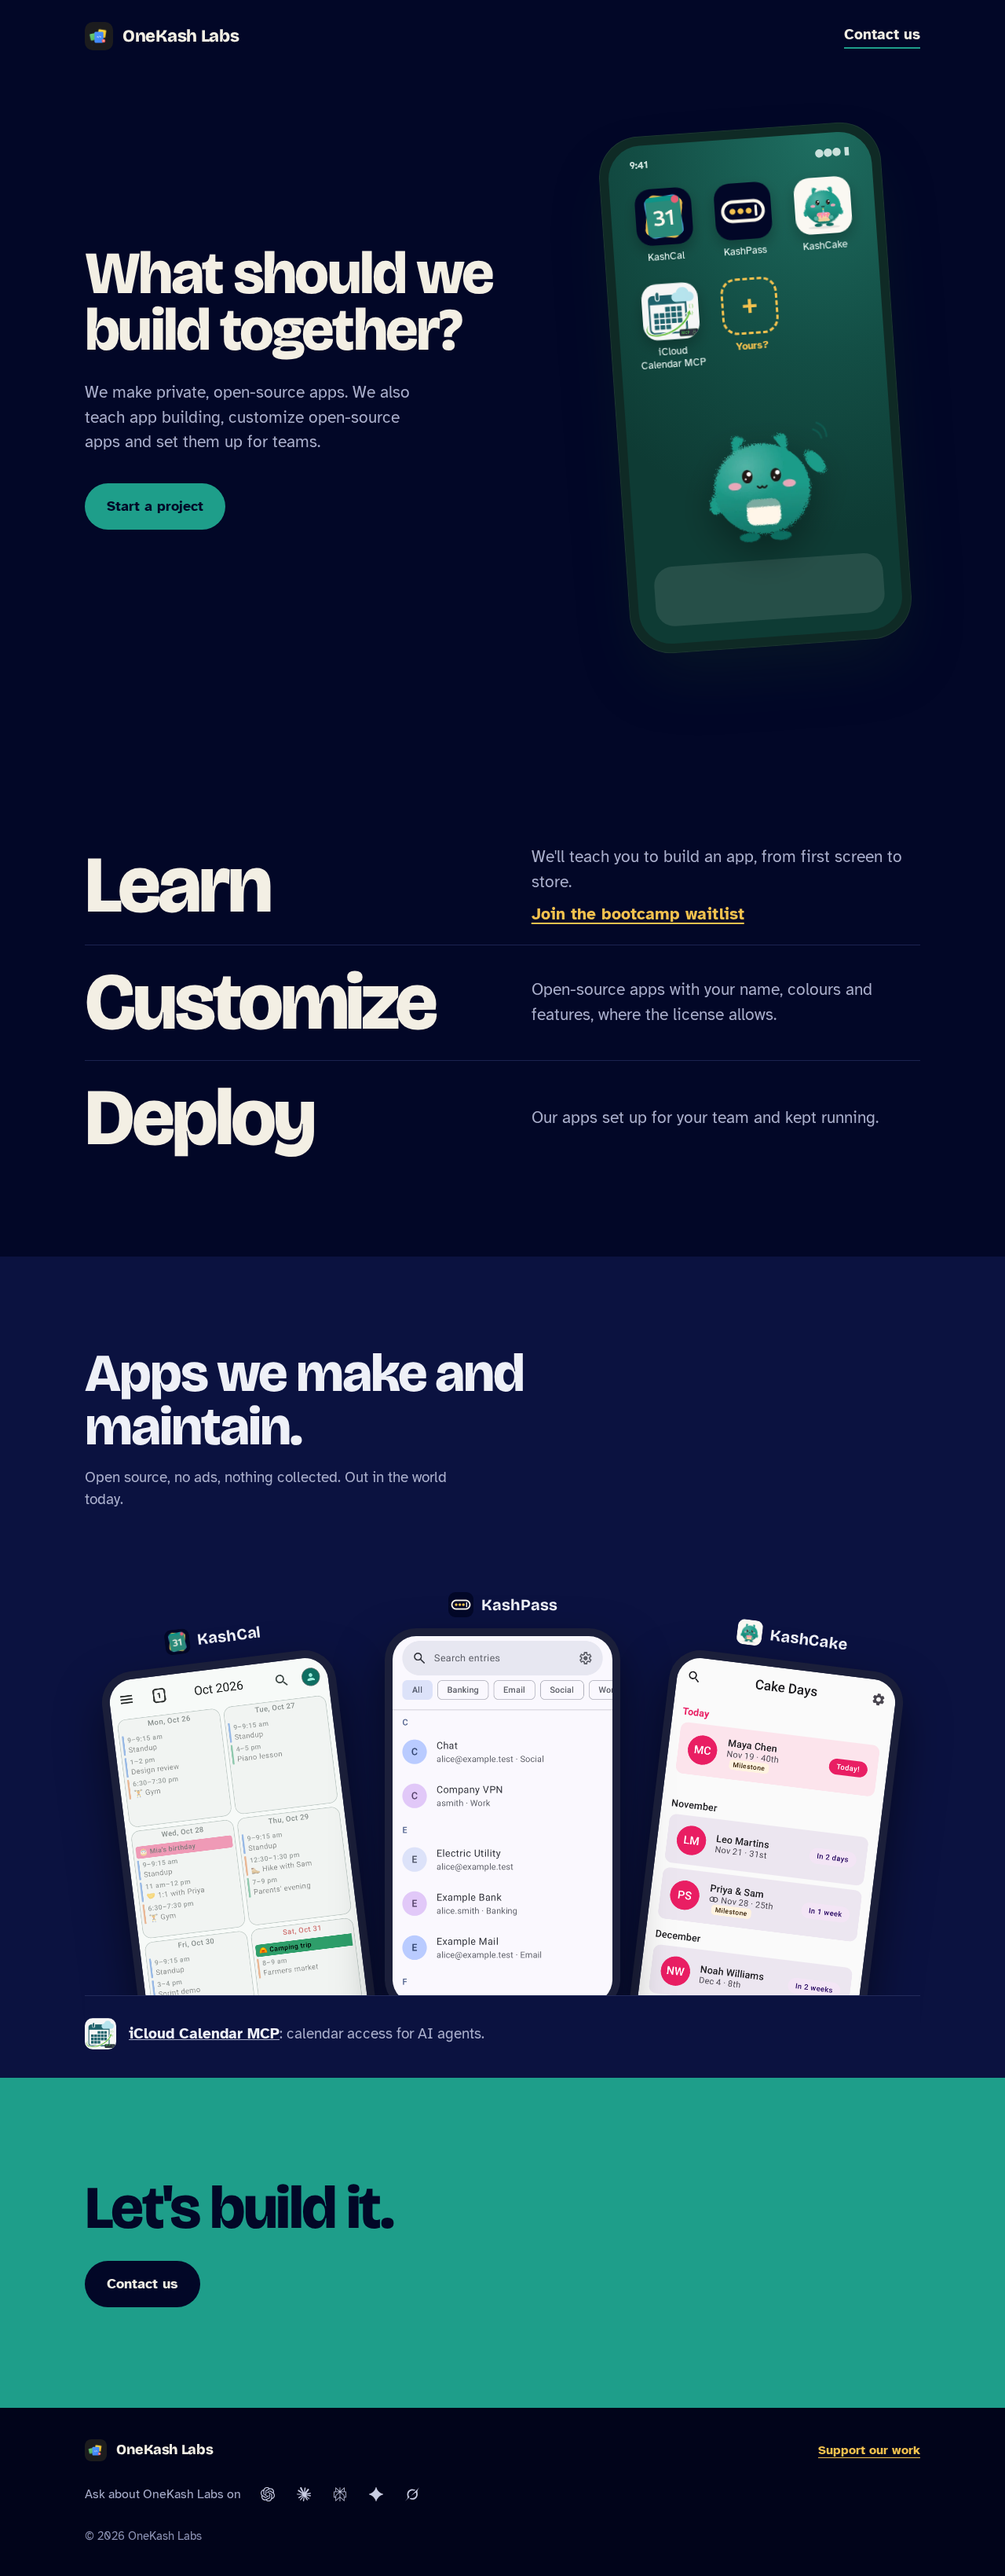
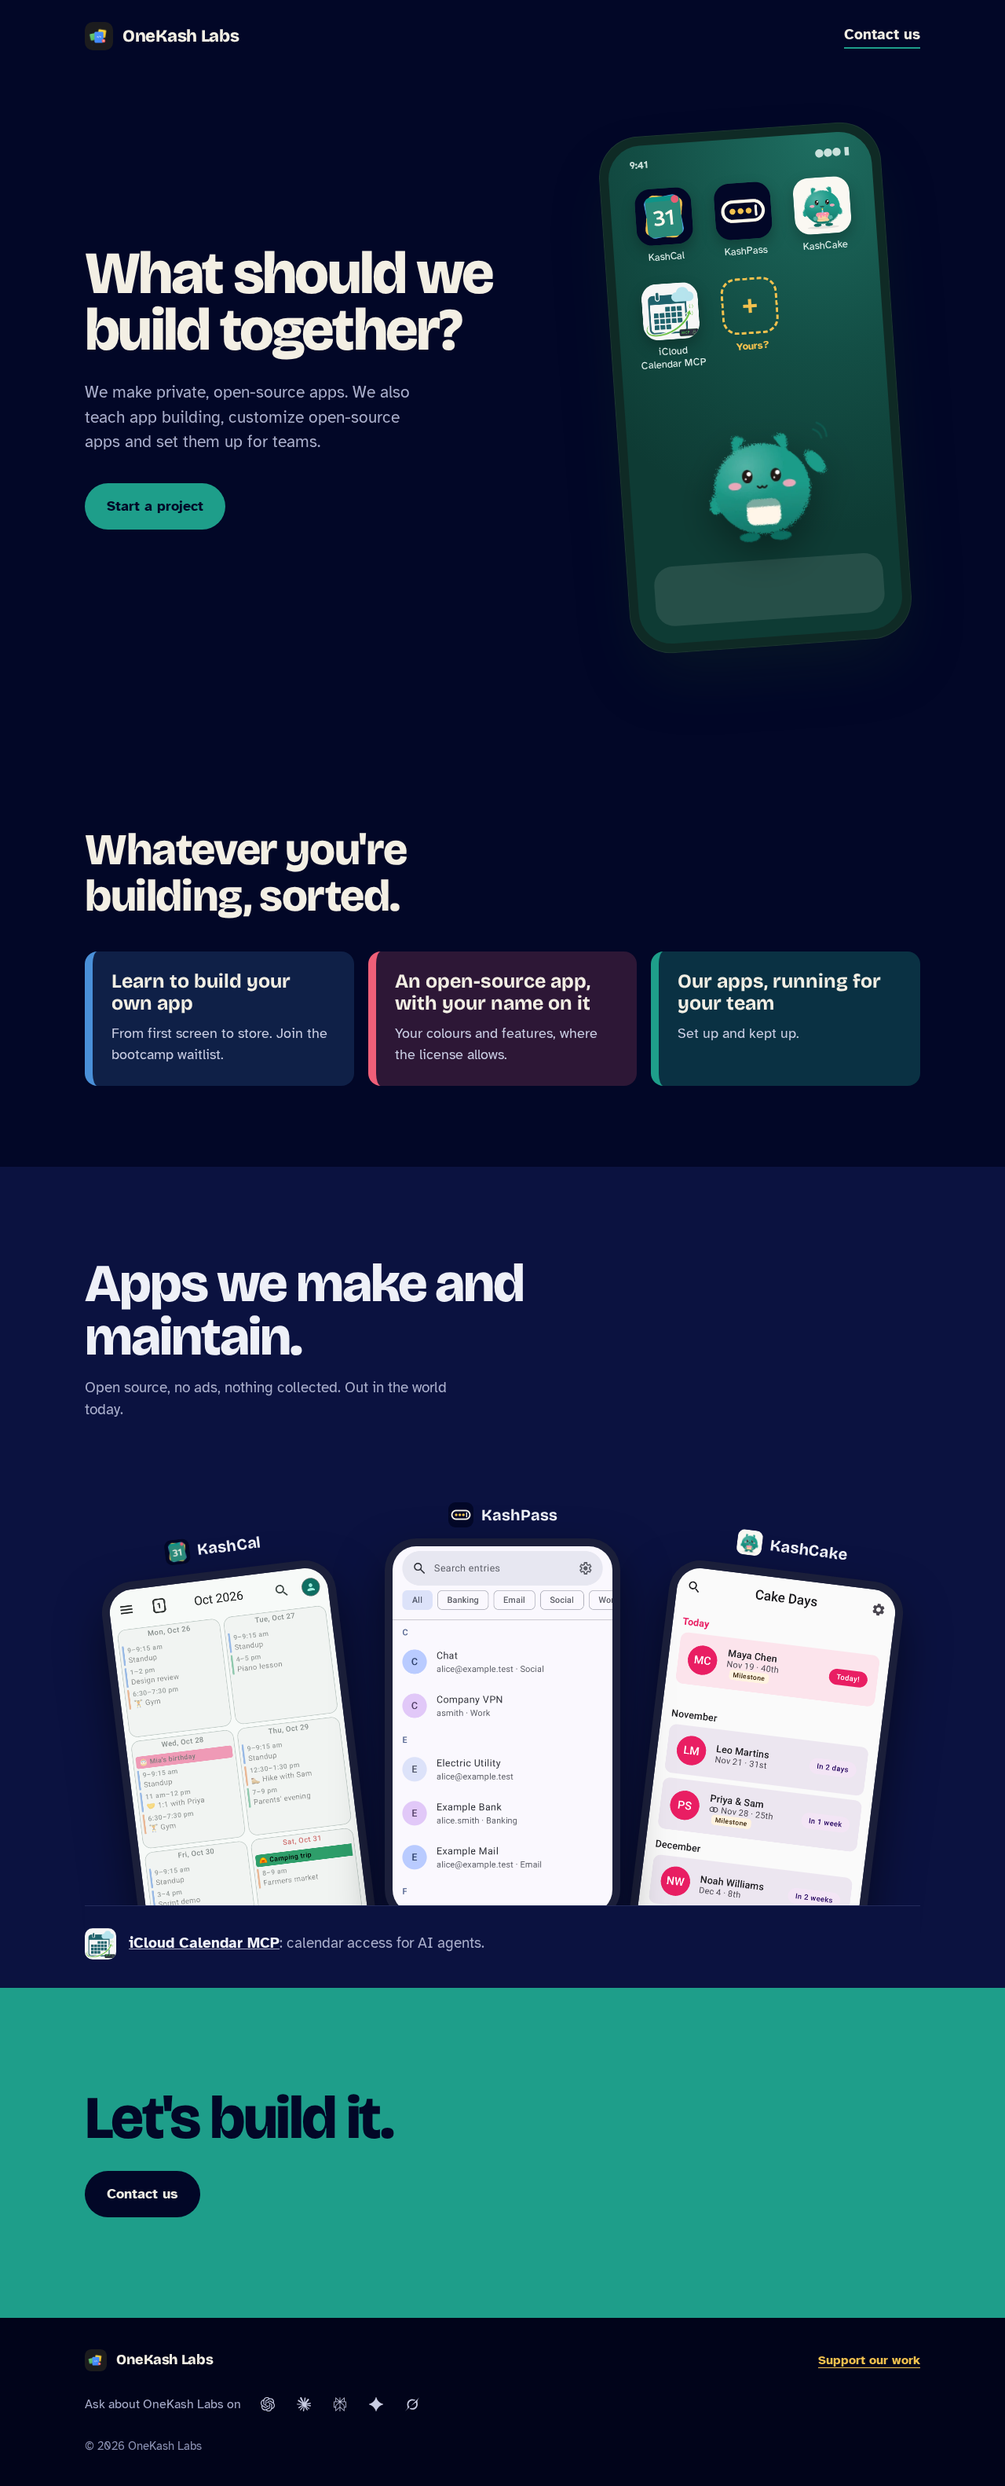
Offerings as tinted tiles with a sentence heading

diff --git a/index.html b/index.html
@@ -69,14 +69,14 @@
   .slot.mine .yours { animation: beckon 1s ease-in-out 1.9s 2; }
   @media (prefers-reduced-motion: reduce) { .slot, .slot.mine .yours { animation: none; } }
 
-  /* Offerings: three words set as type, each with one line. */
+  /* Offerings drawn as the apps' event cards: a tint of the colour with a solid bar of it down the leading edge. */
   .offers { padding: clamp(56px, 8vw, 104px) 0; }
-  .offer { display: grid; grid-template-columns: minmax(0, 1.1fr) minmax(0, 1fr); align-items: center; gap: 24px; padding: 22px 0; }
-  .offer + .offer { border-top: 1px solid #E4DCC6; }
-  .offer h2 { font-family: var(--display); font-weight: 800; font-size: clamp(52px, 8vw, 112px); line-height: 1; letter-spacing: -.04em; }
-  .offer p { font-size: 21px; color: var(--ink-soft); max-width: 34ch; }
-  .offer.learn h2 { color: var(--blue-ink); } .offer.custom h2 { color: var(--pink-ink); } .offer.deploy h2 { color: var(--teal-ink); }
-  .offer .wait { display: inline-block; margin-top: 10px; font-weight: 700; color: var(--blue-ink); text-decoration-thickness: 2px; text-underline-offset: 4px; }
+  .offers h2 { font-family: var(--display); font-weight: 800; font-size: clamp(34px, 4.6vw, 56px); line-height: 1.05; letter-spacing: -.025em; max-width: 18ch; margin-bottom: 40px; }
+  .tiles { display: grid; grid-template-columns: repeat(3, 1fr); gap: 18px; }
+  .tile { display: block; text-decoration: none; border-radius: 16px; padding: 24px 24px 26px; border-inline-start: 10px solid var(--tile); background: color-mix(in srgb, var(--tile) 18%, #020727); color: #F3EFE4; }
+  .tile:hover { background: color-mix(in srgb, var(--tile) 28%, #020727); }
+  .tile h3 { font-family: var(--display); font-weight: 700; font-size: 25px; line-height: 1.15; margin-bottom: 10px; }
+  .tile p { color: #C9CDE3; font-size: 18px; }
 
   /* Proof: the one dark band, three of the apps fanned out as phones showing their real screens. */
   .built { background: var(--navy); color: #EEF0F7; padding: clamp(72px, 9vw, 120px) 0 0; overflow: hidden; }
@@ -117,7 +117,7 @@
   .copy { font-size: 15px; color: #8C92B3; }
 
   @media (max-width: 820px) {
-    .hero, .offer, .talk { grid-template-columns: 1fr; }
+    .hero, .talk, .tiles { grid-template-columns: 1fr; }
     .phone { width: min(70vw, 280px); transform: rotate(-3deg); }
     .stage { width: min(76vw, 300px); }
     .fan figure { width: 46vw; }
@@ -126,9 +126,6 @@
   }
   @media (max-width: 480px) { .top a.mail { font-size: 15px; } }
   :root { --paper: #020727; --ink: #F3EFE4; --ink-soft: #A9AECB; }
-  .offer h2, .offer.learn h2, .offer.custom h2, .offer.deploy h2 { color: var(--ink); }
-  .offer .wait { color: var(--gold); }
-  .offer + .offer { border-top-color: #1C2350; }
   .btn { background: var(--teal); color: #020727; } .btn:hover { background: var(--gold); }
   .built { background: #0B1240; } .built .tool { background: #0B1240; border-top-color: #222A5A; }
   .talkband { background: var(--teal); } .talkband h2 { color: #020727; } .talkband .btn { background: #020727; color: #F3EFE4; } .talkband .btn:hover { background: #0B1240; color: #FFFFFF; }
@@ -169,10 +166,13 @@
 </div>
 
 <div class="wrap">
-  <section class="offers" aria-label="What we do">
-    <div class="offer learn"><h2>Learn</h2><p>We'll teach you to build an app, from first screen to store.<br><a class="wait" href="#" data-mail="Bootcamp waitlist">Join the bootcamp waitlist</a></p></div>
-    <div class="offer custom"><h2>Customize</h2><p>Open-source apps with your name, colours and features, where the license allows.</p></div>
-    <div class="offer deploy"><h2>Deploy</h2><p>Our apps set up for your team and kept running.</p></div>
+  <section class="offers" aria-labelledby="offers-h">
+    <h2 id="offers-h">Whatever you're building, sorted.</h2>
+    <div class="tiles">
+      <a class="tile" style="--tile: #4A90D9" href="#" data-mail="Bootcamp waitlist"><h3>Learn to build your own app</h3><p>From first screen to store. Join the bootcamp waitlist.</p></a>
+      <a class="tile" style="--tile: #EF5F78" href="#talk"><h3>An open-source app, with your name on it</h3><p>Your colours and features, where the license allows.</p></a>
+      <a class="tile" style="--tile: #1E9E8A" href="#talk"><h3>Our apps, running for your team</h3><p>Set up and kept up.</p></a>
+    </div>
   </section>
 </div>
 
